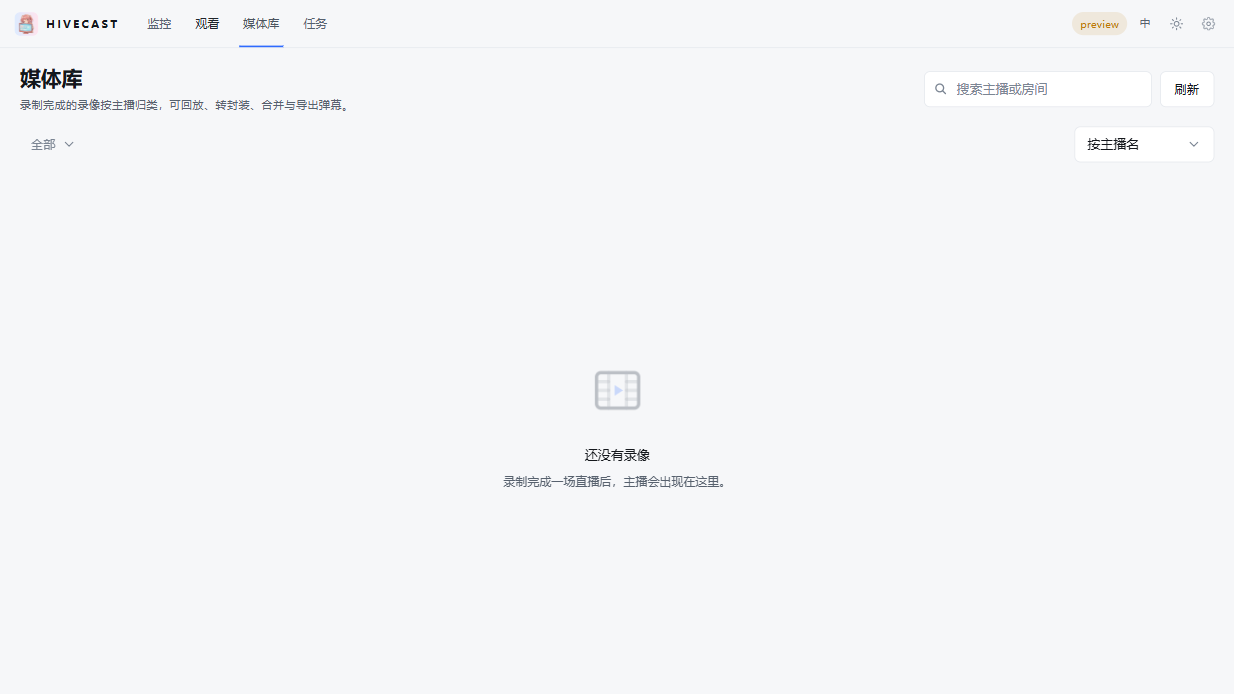
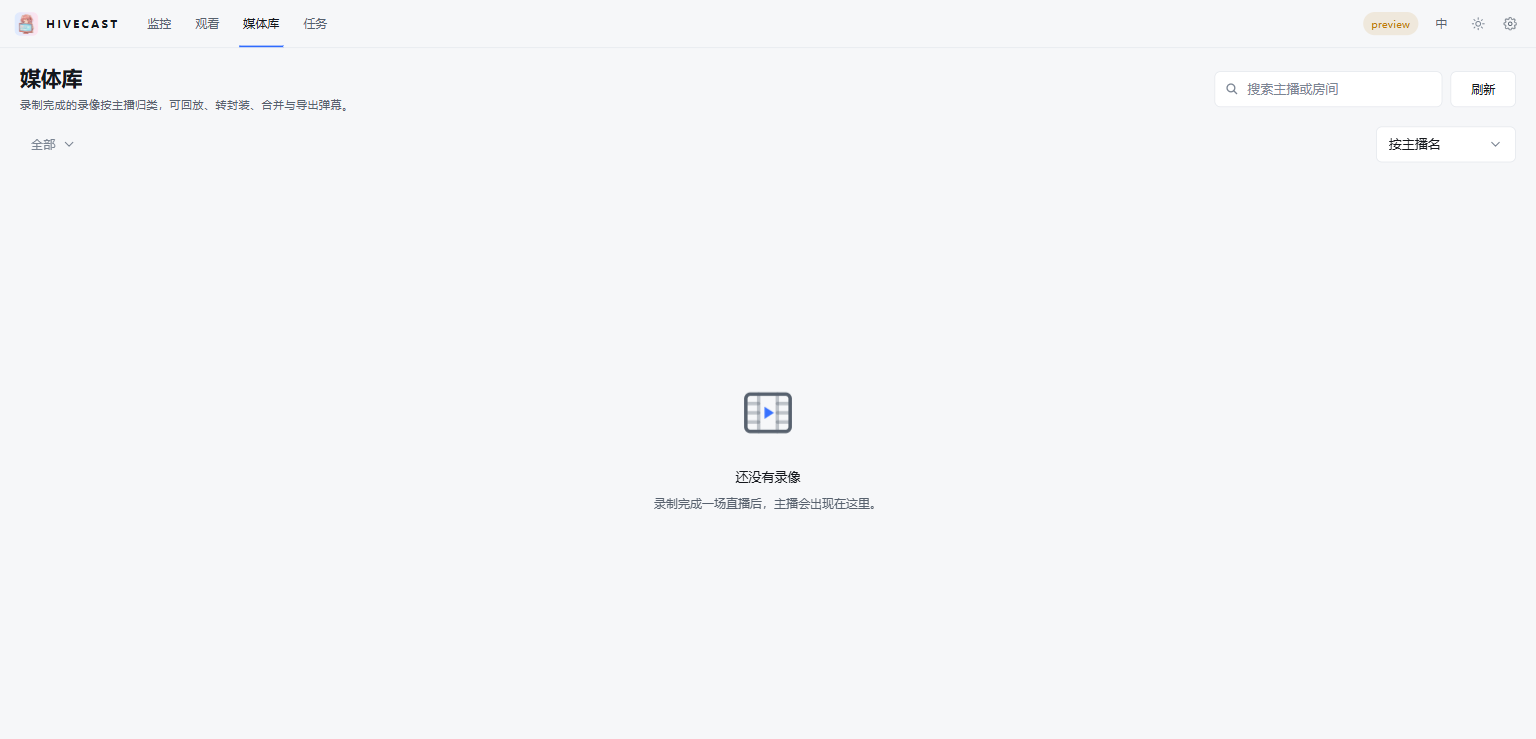
feat(ui): 按钮统一为 Arc Button
Controls.Button / IconButton 改为 Arc Button 适配层，保留 primary/secondary/ghost/danger/recording 语义并覆盖 92 处标准操作按钮，业务调用无需改动。

新增 accent（品牌色，浅色蓝/深色琥珀）、recording（红色实心）变体与 28x28 icon 尺寸；primary 映射 accent，Arc 原生黑白 primary 保留在预览台对照；按下缩放、标签宽度弹簧、loading spinner、disabled 与焦点沿用 Arc Button。

顶栏语言切换与设置侧栏关闭按钮改用 Arc Button/IconButton；Tab、窗口控制、筛选胶囊、分段、菜单项、播放器 overlay、卡片点击等专用按钮保持原样式。

文档 94、两张按钮截图、docs92 四页截图更新，README/docs19 M62/docs86 同步；tsc/build 通过，i18n 627 keys、docs 95 files。

diff --git a/src/components/arc/button/button.module.css b/src/components/arc/button/button.module.css
@@ -11,26 +11,33 @@
 .labelPhase { display: inline-flex; align-items: center; justify-content: center; gap: var(--space-2); white-space: nowrap; }
 .labelPhase svg { flex: none; }
 .primary { color: var(--background); background: var(--foreground); border-color: var(--foreground); }
+/* HIVECAST: 品牌强调色主按钮；浅色蓝、深色琥珀，由 arc-bridge 的 --accent-* 控制。 */
+.accent { color: var(--accent-foreground); background: var(--accent); border-color: var(--accent); }
 .secondary { color: var(--foreground); background: var(--surface); border-color: var(--border); }
 .ghost { color: var(--text-secondary); background: transparent; border-color: transparent; }
 .danger { color: var(--danger); background: var(--surface); border-color: var(--border); }
+.recording { color: #fff; background: var(--danger); border-color: var(--danger); }
 /* A disabled outlined button keeps its shape and fades only its label, so it still reads as a button that is off, not as plain text. */
 .secondary:disabled, .danger:disabled { opacity: 1; color: var(--text-muted); background: var(--surface-muted); border-color: var(--border); }
 .danger:disabled { color: color-mix(in oklab, var(--danger) 55%, var(--surface-muted)); }
 .ghost:disabled { opacity: 1; color: var(--text-muted); }
 @media (hover: hover) and (pointer: fine) {
   .primary:hover:not(:disabled) { opacity: .91; box-shadow: var(--shadow-resting); }
+  .accent:hover:not(:disabled), .recording:hover:not(:disabled) { opacity: .92; box-shadow: var(--shadow-resting); }
   .secondary:hover:not(:disabled) { background: var(--surface-muted); box-shadow: var(--shadow-resting); }
   .ghost:hover:not(:disabled) { color: var(--foreground); background: var(--surface-muted); }
   .danger:hover:not(:disabled) { border-color: var(--danger); background: var(--surface-muted); }
 }
 /* Color feedback on press, so touch and menu triggers (which never scale) still answer the finger. */
-.primary:active:not(:disabled) { opacity: .84; }
+.primary:active:not(:disabled), .accent:active:not(:disabled), .recording:active:not(:disabled) { opacity: .84; }
 .secondary:active:not(:disabled), .ghost:active:not(:disabled) { color: var(--foreground); background: var(--surface-muted); }
 .danger:active:not(:disabled) { border-color: var(--danger); background: var(--surface-muted); }
 .sm { min-height: var(--control-height-sm); padding-inline: var(--space-3); font-size: var(--text-sm); }
 .md { min-height: var(--control-height-md); }
 .lg { min-height: var(--control-height-lg); padding-inline: var(--space-5); font-size: var(--text-sm); }
+/* 只有图标的工具按钮：正方形命中区，不保留文本内边距。 */
+.icon { width: var(--control-height-sm); min-height: var(--control-height-sm); padding-inline: 0; }
+.accent:disabled, .recording:disabled { opacity: .45; }
 .loader { position: absolute; left: 50%; top: 50%; display: grid; width: var(--space-4); height: var(--space-4); margin: calc(var(--space-4) / -2); }
 .spinner { border: 1.5px solid currentColor; border-right-color: transparent; border-radius: 50%; animation: spin .7s linear infinite; }
 .loadingLabel { opacity: 0; }

diff --git a/src/components/ui/Controls.tsx b/src/components/ui/Controls.tsx
@@ -1,5 +1,6 @@
 import type { ReactNode } from "react";
 import { Switch as ArcSwitch } from "../arc/switch/switch";
+import { Button as ArcButton, type ButtonVariant as ArcButtonVariant } from "../arc/button/button";
 
 export function cx(...parts: Array<string | false | null | undefined>): string {
   return parts.filter(Boolean).join(" ");
@@ -17,15 +18,16 @@ type ButtonProps = {
   className?: string;
 };
 
-const BUTTON_VARIANT: Record<NonNullable<ButtonProps["variant"]>, string> = {
-  primary:
-    "bg-accent text-accent-ink shadow-[0_1px_2px_rgba(16,24,40,0.12)] hover:brightness-[0.97] active:brightness-95",
-  secondary: "border border-line bg-surface text-ink hover:bg-raised active:bg-raised",
-  ghost: "text-muted hover:bg-raised hover:text-ink",
-  danger: "border border-rec/25 bg-rec/10 text-rec hover:bg-rec/15",
-  recording: "bg-rec text-white hover:brightness-[0.97] shadow-[0_1px_2px_rgba(229,72,77,0.25)]",
+const BUTTON_VARIANT: Record<NonNullable<ButtonProps["variant"]>, ArcButtonVariant> = {
+  primary: "accent",
+  secondary: "secondary",
+  ghost: "ghost",
+  danger: "danger",
+  recording: "recording",
 };
 
+/** 统一使用 Arc (uiarc.dev) 的 Button：按下缩放、标签切换时弹簧收放。
+ *  保留项目原有的 variant / size 语义，primary 映射到品牌强调色变体。 */
 export function Button({
   children,
   onClick,
@@ -38,22 +40,18 @@ export function Button({
   className,
 }: ButtonProps) {
   return (
-    <button
+    <ArcButton
       type={type}
       title={title}
       onClick={onClick}
       onBlur={onBlur}
       disabled={disabled}
-      className={cx(
-        "focus-ring inline-flex shrink-0 items-center justify-center gap-1.5 rounded-ctl font-medium transition-[background-color,color,box-shadow,filter,transform] duration-150 active:scale-[0.985]",
-        size === "sm" ? "h-7 px-2.5 text-[11.5px]" : size === "lg" ? "h-9 px-3.5 text-[12.5px]" : "h-8 px-3 text-[12px]",
-        BUTTON_VARIANT[variant],
-        disabled ? "pointer-events-none opacity-45" : "",
-        className,
-      )}
+      variant={BUTTON_VARIANT[variant]}
+      size={size}
+      className={className}
     >
       {children}
-    </button>
+    </ArcButton>
   );
 }
 
@@ -63,28 +61,28 @@ export function IconButton({
   label,
   disabled,
   active,
+  className,
 }: {
   children: ReactNode;
   onClick?: () => void;
   label: string;
   disabled?: boolean;
   active?: boolean;
+  className?: string;
 }) {
   return (
-    <button
+    <ArcButton
       type="button"
       title={label}
       aria-label={label}
       onClick={onClick}
       disabled={disabled}
-      className={cx(
-        "focus-ring flex h-7 w-7 shrink-0 items-center justify-center rounded-ctl transition-colors duration-150",
-        active ? "bg-raised text-ink" : "text-faint hover:bg-raised hover:text-ink",
-        disabled ? "pointer-events-none opacity-40" : "",
-      )}
+      variant={active ? "secondary" : "ghost"}
+      size="icon"
+      className={cx("shrink-0", className)}
     >
       {children}
-    </button>
+    </ArcButton>
   );
 }
 

diff --git a/src/features/settings/SettingsView.tsx b/src/features/settings/SettingsView.tsx
@@ -19,7 +19,7 @@ import {
   type TrashInfo,
 } from "../../lib/ipc";
 import appIcon from "../../assets/app-icon.png";
-import { Button, Segmented, Switch, cx } from "../../components/ui/Controls";
+import { Button, IconButton, Segmented, Switch, cx } from "../../components/ui/Controls";
 import { SelectMenu } from "../../components/ui/SelectMenu";
 import AccountSection from "./AccountSection";
 
@@ -1513,16 +1513,11 @@ export default function SettingsView({ open, initialPage, onClose, onSaved }: Pr
             <div className="truncate text-[12.5px] font-semibold text-ink">HIVECAST</div>
             <div className="truncate text-[10px] text-faint">{t("settings.title")}</div>
           </div>
-          <button
-            type="button"
-            onClick={attemptClose}
-            aria-label={t("settings.close")}
-            className="no-drag focus-ring flex h-7 w-7 shrink-0 items-center justify-center rounded-ctl text-faint transition-colors hover:bg-raised hover:text-ink"
-          >
+          <IconButton label={t("settings.close")} onClick={attemptClose} className="no-drag">
             <svg width="12" height="12" viewBox="0 0 12 12" fill="none" stroke="currentColor" strokeWidth="1.5" aria-hidden>
               <path d="M2.5 2.5 9.5 9.5M9.5 2.5 2.5 9.5" strokeLinecap="round" />
             </svg>
-          </button>
+          </IconButton>
         </div>
 
         <div className="shrink-0 px-3 pb-1 pt-1.5">

diff --git a/src/App.tsx b/src/App.tsx
@@ -1,6 +1,6 @@
 import { useCallback, useEffect, useRef, useState } from "react";
 import { useTranslation } from "react-i18next";
-import { motion, useReducedMotion } from "motion/react";import { IconButton, cx } from "./components/ui/Controls";
+import { motion, useReducedMotion } from "motion/react";import { Button, IconButton, cx } from "./components/ui/Controls";
 import WindowControls from "./components/WindowControls";
 import ResizeHandles from "./components/ResizeHandles";
 import MediaPage from "./features/media/MediaPage";
@@ -326,14 +326,14 @@ export default function App() {
           {!isTauri() && (
             <span className="rounded-full bg-warn/12 px-2 py-1 text-[10.5px] text-warn">preview</span>
           )}
-          <button
-            type="button"
-            onClick={() => pickLanguage(lang === "zh-CN" ? "en-US" : "zh-CN")}
+          <Button
+            size="sm"
+            variant="ghost"
             title={t("settings.language")}
-            className="focus-ring h-7 rounded-ctl px-2 text-[11px] font-medium text-muted transition-colors hover:bg-raised hover:text-ink"
+            onClick={() => pickLanguage(lang === "zh-CN" ? "en-US" : "zh-CN")}
           >
             {lang === "zh-CN" ? "中" : "EN"}
-          </button>
+          </Button>
           <ThemeSwitch
             theme={appearance}
             iconOnly

diff --git a/src/features/design/ArcLab.tsx b/src/features/design/ArcLab.tsx
@@ -55,22 +55,24 @@ export default function ArcLab() {
         <section className="card flex flex-col gap-4 p-6">
           <h2 className="text-[13px] font-semibold">Button</h2>
           <div className="flex flex-wrap items-center gap-3">
-            <Button variant="primary">开始录制</Button>
+            <Button variant="accent">开始录制</Button>
+            <Button variant="primary">Arc primary</Button>
             <Button variant="secondary">次要操作</Button>
             <Button variant="ghost">Ghost</Button>
             <Button variant="danger">删除</Button>
-            <Button variant="primary" loading>
+            <Button variant="recording">录制中</Button>
+            <Button variant="accent" loading>
               处理中
             </Button>
           </div>
           <div className="flex flex-wrap items-end gap-3">
-            <Button variant="primary" size="sm">
+            <Button variant="accent" size="sm">
               Small
             </Button>
-            <Button variant="primary" size="md">
+            <Button variant="accent" size="md">
               Medium
             </Button>
-            <Button variant="primary" size="lg">
+            <Button variant="accent" size="lg">
               Large
             </Button>
           </div>

diff --git a/src/components/arc/button/button.tsx b/src/components/arc/button/button.tsx
@@ -7,8 +7,8 @@ import type { TargetAndTransition, Variants } from "motion/react";
 import { motionTokens } from "../lib/motion-tokens";
 import styles from "./button.module.css";
 
-export type ButtonVariant = "primary" | "secondary" | "ghost" | "danger";
-export type ButtonSize = "sm" | "md" | "lg";
+export type ButtonVariant = "primary" | "accent" | "secondary" | "ghost" | "danger" | "recording";
+export type ButtonSize = "sm" | "md" | "lg" | "icon";
 
 export interface ButtonProps extends Omit<ButtonHTMLAttributes<HTMLButtonElement>, "onDrag" | "onDragEnd" | "onDragStart" | "onAnimationStart"> {
   variant?: ButtonVariant;

diff --git a/docs/94-按钮统一为Arc-Button.md b/docs/94-按钮统一为Arc-Button.md
@@ -1,0 +1,69 @@
+# 94-按钮统一为 Arc Button
+
+> 状态：v1 已实施（2026-11-09）；浏览器预览完成四页、设置、弹窗与深浅色验收，Tauri 真机待点。
+> 范围：应用内标准操作按钮统一使用 Arc（uiarc.dev）的 `Button`，替换项目原来的 Tailwind 自绘按钮。
+> 前置阅读：`86-Arc-UI控件环境.md`、`91-开关统一为Arc-Switch.md`、`92-四页结构统一.md`、`93-复选框统一为Arc-Checkbox.md`。
+
+## 0. 结论速览
+
+- `src/components/ui/Controls.tsx` 的 `Button` 和 `IconButton` 改为 Arc Button 适配层；业务调用方继续使用原来的 `variant / size / disabled / title / type`，不用改 92 处调用。
+- 保留项目语义：`primary / secondary / ghost / danger / recording`，分别映射到 Arc 的 `accent / secondary / ghost / danger / recording`。
+- 新增 Arc Button 变体 `accent`（品牌强调色，浅色蓝 / 深色琥珀）与 `recording`（红色实心），新增 `icon` 尺寸（28×28 正方形命中区）。
+- Arc 原生 `primary`（黑白）仍保留，用于需要纯黑白层次的场景；应用主按钮走 `accent`，保持现有品牌色。
+- 按钮尺寸与旧实现一致：sm 28、md 32、lg 36；按下有轻微缩放，标签变化时宽度用弹簧收放，加载时显示 spinner。
+- 顶栏语言切换、设置页侧栏关闭按钮也改用 Arc Button / IconButton。
+
+## 1. 组件与映射
+
+| 项目 API | Arc Button | 说明 |
+| --- | --- | --- |
+| `variant="primary"` | `accent` | 品牌强调色：浅色蓝底白字、深色琥珀底暖黑字 |
+| `variant="secondary"` | `secondary` | 表面 + 描边 + hover 浅底 |
+| `variant="ghost"` | `ghost` | 无底色，hover 才出现浅底 |
+| `variant="danger"` | `danger` | 表面 + 描边 + 红色文字，hover 红描边 |
+| `variant="recording"` | `recording` | 红色实心，用于录制中/停止录制 |
+| `size="sm" / "md" / "lg"` | 同名 | 28 / 32 / 36px 高 |
+| `IconButton` | `size="icon"` + ghost/secondary | 28×28 正方形，用于工具图标 |
+
+适配层仍默认 `type="button"`，保留 `title`、`onBlur`、`className`、`disabled`；提交按钮显式传 `type="submit"` 时照常提交。
+
+## 2. 动效与视觉
+
+- **按下**：Arc 按宽度选择 `.985/.97/.96` 的缩放，图标按钮按得更深。
+- **标签变化**：Arc 用 `AnimatePresence` + 宽度弹簧把旧标签换出、新标签换入；「全选 / 取消全选」「开始 / 停止」这类切换会平滑过渡。
+- **加载**：Arc Button 原生 `loading` 显示 spinner 并隐藏标签；项目 API 暂未暴露，ArcLab 可直接用。
+- **禁用**：secondary/danger 保持外形并降低文字与底色对比；accent/recording 只降透明度，仍能看出这是一个关闭的按钮。
+- **焦点**：沿用 Arc foundation 的 `:focus-visible` 描边；桌面壳守卫在 Tauri 下把 `--focus-outline` 设为透明。
+
+## 3. 保留原生的按钮
+
+以下不是通用操作按钮，继续使用各自的专用样式，不强行套 Arc Button：
+
+- 顶栏 Tab、窗口最小化/最大化/关闭、设置侧栏导航；
+- `PageChip` 筛选胶囊、`Segmented` 分段控件、下拉菜单项；
+- 播放器深色控制条（播放/静音/画中画/全屏/弹幕），需要黑底半透明样式；
+- 封面播放按钮、录像卡/主播卡整卡点击、缩略图整块点击；
+- 行尾 `⋯` 动作菜单触发器、输入框内清除按钮等图标热区。
+
+判断标准：有独立语义（导航/菜单/分段/卡片/深色 overlay）的保留专用样式；承担「提交、取消、刷新、添加、删除、全选」等标准动作的都用 Arc Button。
+
+## 4. 验证
+
+- 浏览器预览四页：监控「添加房间」为蓝色 accent；观看「紧凑 / 全屏」为 ghost；媒体「刷新」为 secondary；任务「刷新」为 secondary；尺寸 28/32/36 与旧实现一致。
+- 设置页：底部「关闭」ghost、「保存」accent；禁用保存按钮透明度正确；侧栏关闭按钮为 28×28 Arc icon 按钮。
+- 添加房间弹窗：「取消」ghost、「添加」accent；提交按钮仍为 `type="submit"`。
+- 顶栏语言切换为 28px Arc ghost；主题按钮与设置按钮同高。
+- ArcLab `Button` 段：accent、Arc primary、secondary、ghost、danger、recording、loading 与三种尺寸；浅色/深色均正常。
+- `pnpm exec tsc -b`、`pnpm build` 通过；`check:i18n` 627 keys、`check:docs` 95 files。
+
+![Arc Button 浅色预览](assets/94-arc-button.png)
+
+![Arc Button 深色预览](assets/94-arc-button-dark.png)
+
+## 5. 已知限制
+
+- **主按钮保留品牌色**：Arc 原生 primary 是黑白；本项目把 `primary` 映射到新增的 `accent` 变体，避免整页主操作从蓝/琥珀变成黑/白。ArcLab 仍保留原生 `primary` 做对照。
+- **`danger` 改为 Arc 风格**：从浅红底改为表面 + 红字 + 红描边；如果想恢复更重的警示底，可再加 `dangerSoft`，不要在业务里手写红色按钮。
+- **标签弹簧会动**：这是 Arc Button 的表现；如果某个高频变化的按钮不需要宽度动画，应给组件加 `morph={false}`，而不是改回原生 `<button>`。
+- **IconButton 只收口了标准图标按钮**：播放器、窗口控制、卡片点击等专用按钮不在此列。
+- **有数据状态待真机**：媒体批量操作条、任务取消、关闭拦截弹窗等需要在 `pnpm tauri dev` 下再点一遍。

diff --git a/README.md b/README.md
@@ -107,6 +107,7 @@
 | [91-开关统一为Arc-Switch](docs/91-开关统一为Arc-Switch.md) | 应用内全部二元开关换成 Arc（uiarc.dev）`Switch`：42×24 轨道 + 18px thumb，按下拉伸、松开弹簧归位，reduced motion 直接到位；`Controls.Switch` 保留原 `checked/onChange/label` API 并映射到 Radix `onCheckedChange`，覆盖设置 13、添加房间 2、关闭拦截 1；新增 `@radix-ui/react-switch` 与 `?arc-lab=1` 预览段 | 改开关尺寸、动效或新增设置项时 |
 | [92-四页结构统一](docs/92-四页结构统一.md) | 新增 `PageShell` / `PageHeader` / `PageToolbar` / `PageBody` / `PageChip` / `PageSearch`，监控、观看、媒体库、任务统一为「21px 标题 + 11.5px 说明 + 标题右侧操作 + 第二行工具栏 + 独立滚动内容区」；媒体库补标题/说明并由 `PageBody` 自己滚动，观看全屏隐藏标题区、工具栏改为顶部悬浮条；任务新增全部/进行中/最近完成筛选；四页空态重新对齐 | 新增页面、改页面头部/工具栏/滚动结构时 |
 | [93-复选框统一为Arc-Checkbox](docs/93-复选框统一为Arc-Checkbox.md) | 应用内多选统一为 Arc（uiarc.dev）`Checkbox`：32px 命中区 + 18px 方块，选中填充弹簧放大、勾线绘制，indeterminate morph 成横杠；监控行与媒体卡替换自绘方块并删除本地 `IconCheck`；新增 `tone="overlay"` 半透明深底 + 白描边用于视频封面；`?arc-lab=1` 补勾选/未勾选/部分选中/禁用/带标签与 overlay 预览 | 改多选表现、封面勾选框或新增选择场景时 |
+| [94-按钮统一为Arc-Button](docs/94-按钮统一为Arc-Button.md) | `Controls.Button` / `IconButton` 改为 Arc（uiarc.dev）`Button` 适配层，覆盖 92 处标准操作按钮；保留 `primary/secondary/ghost/danger/recording` 语义，primary 映射品牌色 `accent`，新增 `recording` 红色实心与 28×28 `icon` 尺寸；按下缩放、标签弹簧收放、loading spinner；顶栏语言切换与设置侧栏关闭也改用 Arc；Tab/分段/菜单/播放器 overlay/卡片点击保持专用样式 | 改按钮样式、尺寸、变体或新增操作按钮时 |
 | [84-弹幕录制设置](docs/84-弹幕录制设置.md) | v1.1 已实施并完成 macOS 真机验收：全局录制弹幕总开关 + 礼物/SC/舰长事件开关；设置页独立「弹幕录制」页、`RecordRules` 写入器过滤、开录门禁、0 字节 JSONL 清理与 attach 泄漏修复；247 passed / 17 ignored、597 i18n keys；真实房间验证总开关开/关两场、JSONL/ASS 与 DB 路径；含评审分析、行为矩阵与已知限制 | 改弹幕录制开关、排查 JSONL/ASS 事件缺失或评估验收范围时 |
 | [59-监控录制联动修复四](docs/59-监控录制联动修复四.md) | B1–B9 九条全部修复：未确认收尾只记 finished/stream_ended 但不通知不静默且计入连续失败（3 次冷却 5 分钟）、离线确认去掉 180 秒窗口改纯计数、停录幂等且监控跳过已停会话、续录只丢地址缓存保留共享冷却、设置/房间 2 秒缓存、检测任务 panic 兜底、刷新走 start_checked；4 个新单测 + 真机验收（伪造 ffmpeg 秒退三次进冷却、磁盘红线单次停录、SIGTERM） | 排查误报下播、重复停录或改续录/离线判定时 |
 

diff --git a/docs/86-Arc-UI控件环境.md b/docs/86-Arc-UI控件环境.md
@@ -71,7 +71,7 @@ const lab = import.meta.env.DEV && new URLSearchParams(window.location.search).h
 
 ## 4. 已知取舍
 
-- **Button primary 是黑白，不是品牌蓝**：Arc 的 `.primary` 用 `--foreground` 当底色。要不要给 HIVECAST 加一个 accent 主按钮变体，等迭代 Button 时再定；不要在桥接层硬改 `.primary`（CSS Modules 类名带哈希）。
+- **Button primary 与品牌色**：Arc 原生 `.primary` 用 `--foreground` 当底色（黑白/米白）。已单独新增 `.accent` 变体承载品牌强调色，项目 `Button primary` 映射到 `accent`；Arc 原生 primary 保留在预览台对照，不改桥接层。详见 `94-按钮统一为Arc-Button.md`。
 - **组件源码可改但要留痕**：Arc 是 copy-paste 模式，改 `src/components/arc/**` 属于本项目代码；重新执行 `shadcn add --overwrite` 会覆盖，改动前先记录。
 - **shadcn CLI 依赖根 `tsconfig.json` 的 paths**：根配置原本只有 references，CLI 解析不到 `@/` 会真的创建 `@/components/...` 目录。已在根 `tsconfig.json` 补 `baseUrl` 与 `paths`，后续安装不会再跑偏。
 - **CSS Modules 与 Tailwind 并存**：Arc 组件内部不认 Tailwind 类，外层容器仍然用现有 Tailwind；不要在 Arc 组件上叠 `className` 期望改内部样式。
@@ -110,3 +110,5 @@ pnpm run check:docs       # 文档表格 / 链接 / 代码围栏
 第三个落地控件是 `Switch`：应用内全部二元开关（设置 13、添加房间 2、关闭拦截 1）统一使用 Arc 的 42×24 轨道与弹簧 thumb，`Controls.Switch` 作为适配层保留旧 API；预览台新增开/关/只读/禁用四种形态。详见 `91-开关统一为Arc-Switch.md`。
 
 第四个落地控件是 `Checkbox`：监控行与媒体卡的多选改为 Arc 的 18px 方块 + 32px 命中区，勾线/横杠用同一路径 morph；视频封面使用本地 `tone="overlay"` 半透明深底 + 白描边。详见 `93-复选框统一为Arc-Checkbox.md`。
+
+第五个落地控件是 `Button`：`Controls.Button` / `IconButton` 改为 Arc Button 适配层，覆盖 92 处标准操作按钮；新增 `accent`（品牌色）、`recording`（红色实心）变体与 `icon` 尺寸，`primary` 仍映射品牌强调色。详见 `94-按钮统一为Arc-Button.md`。
